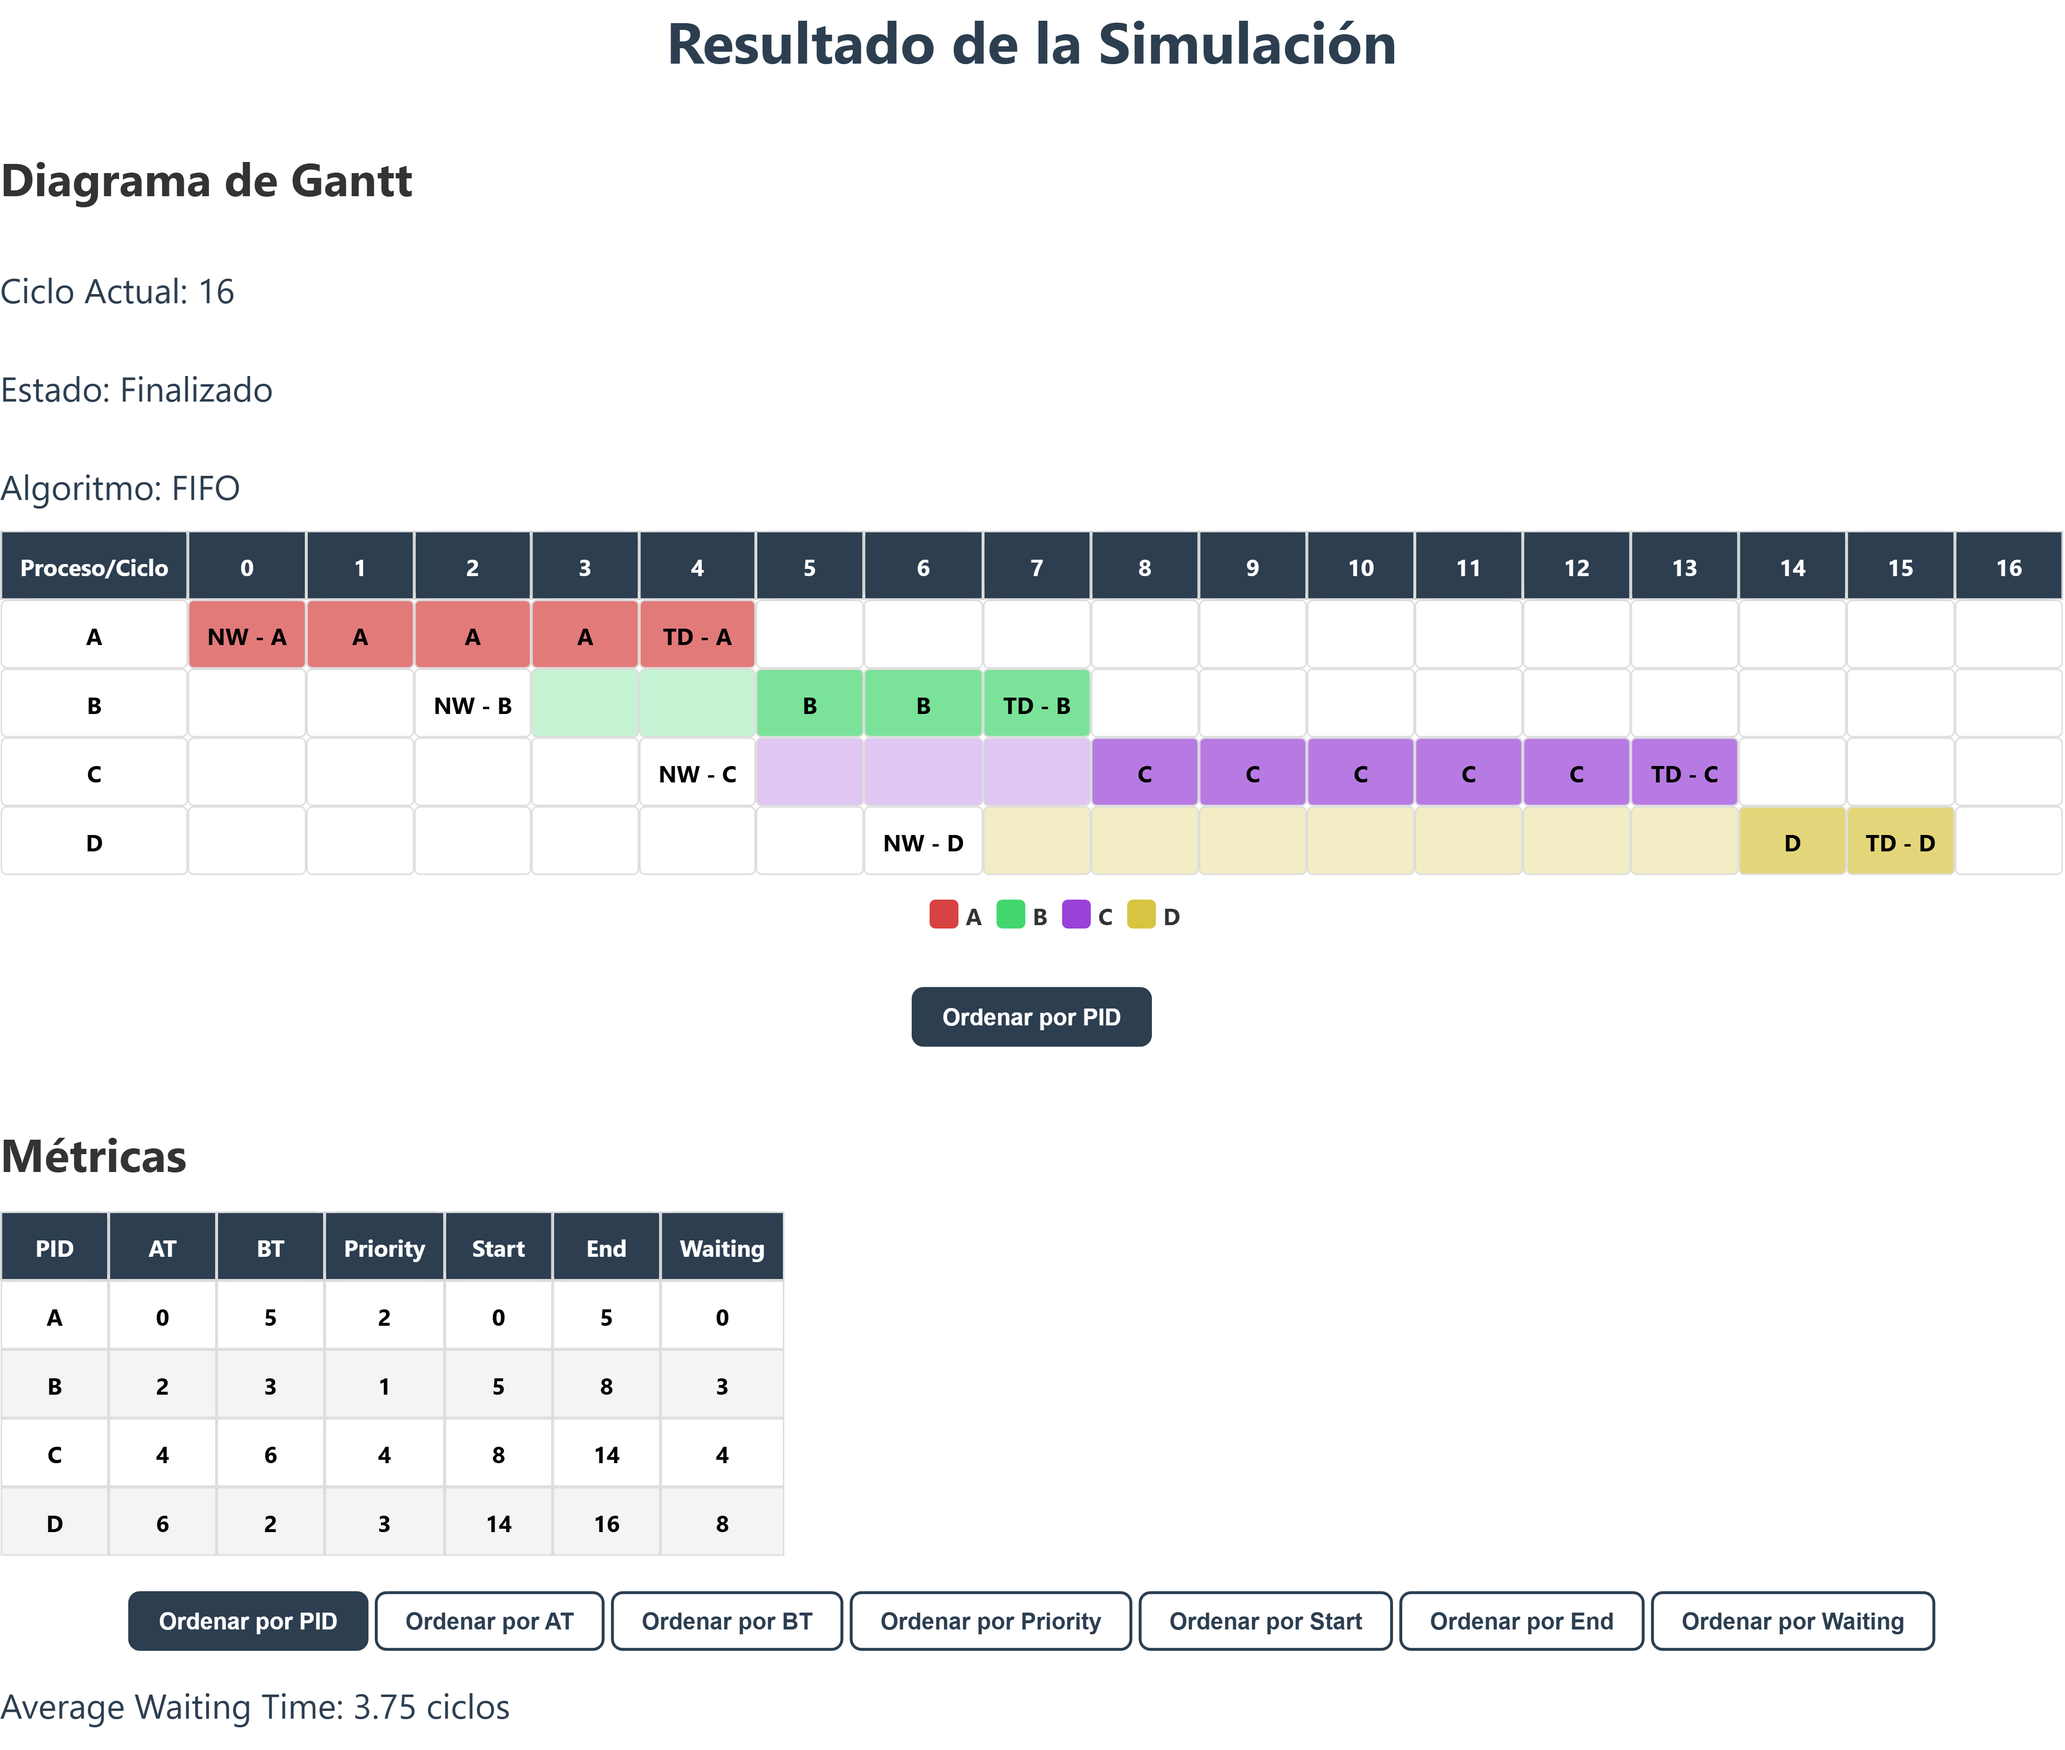
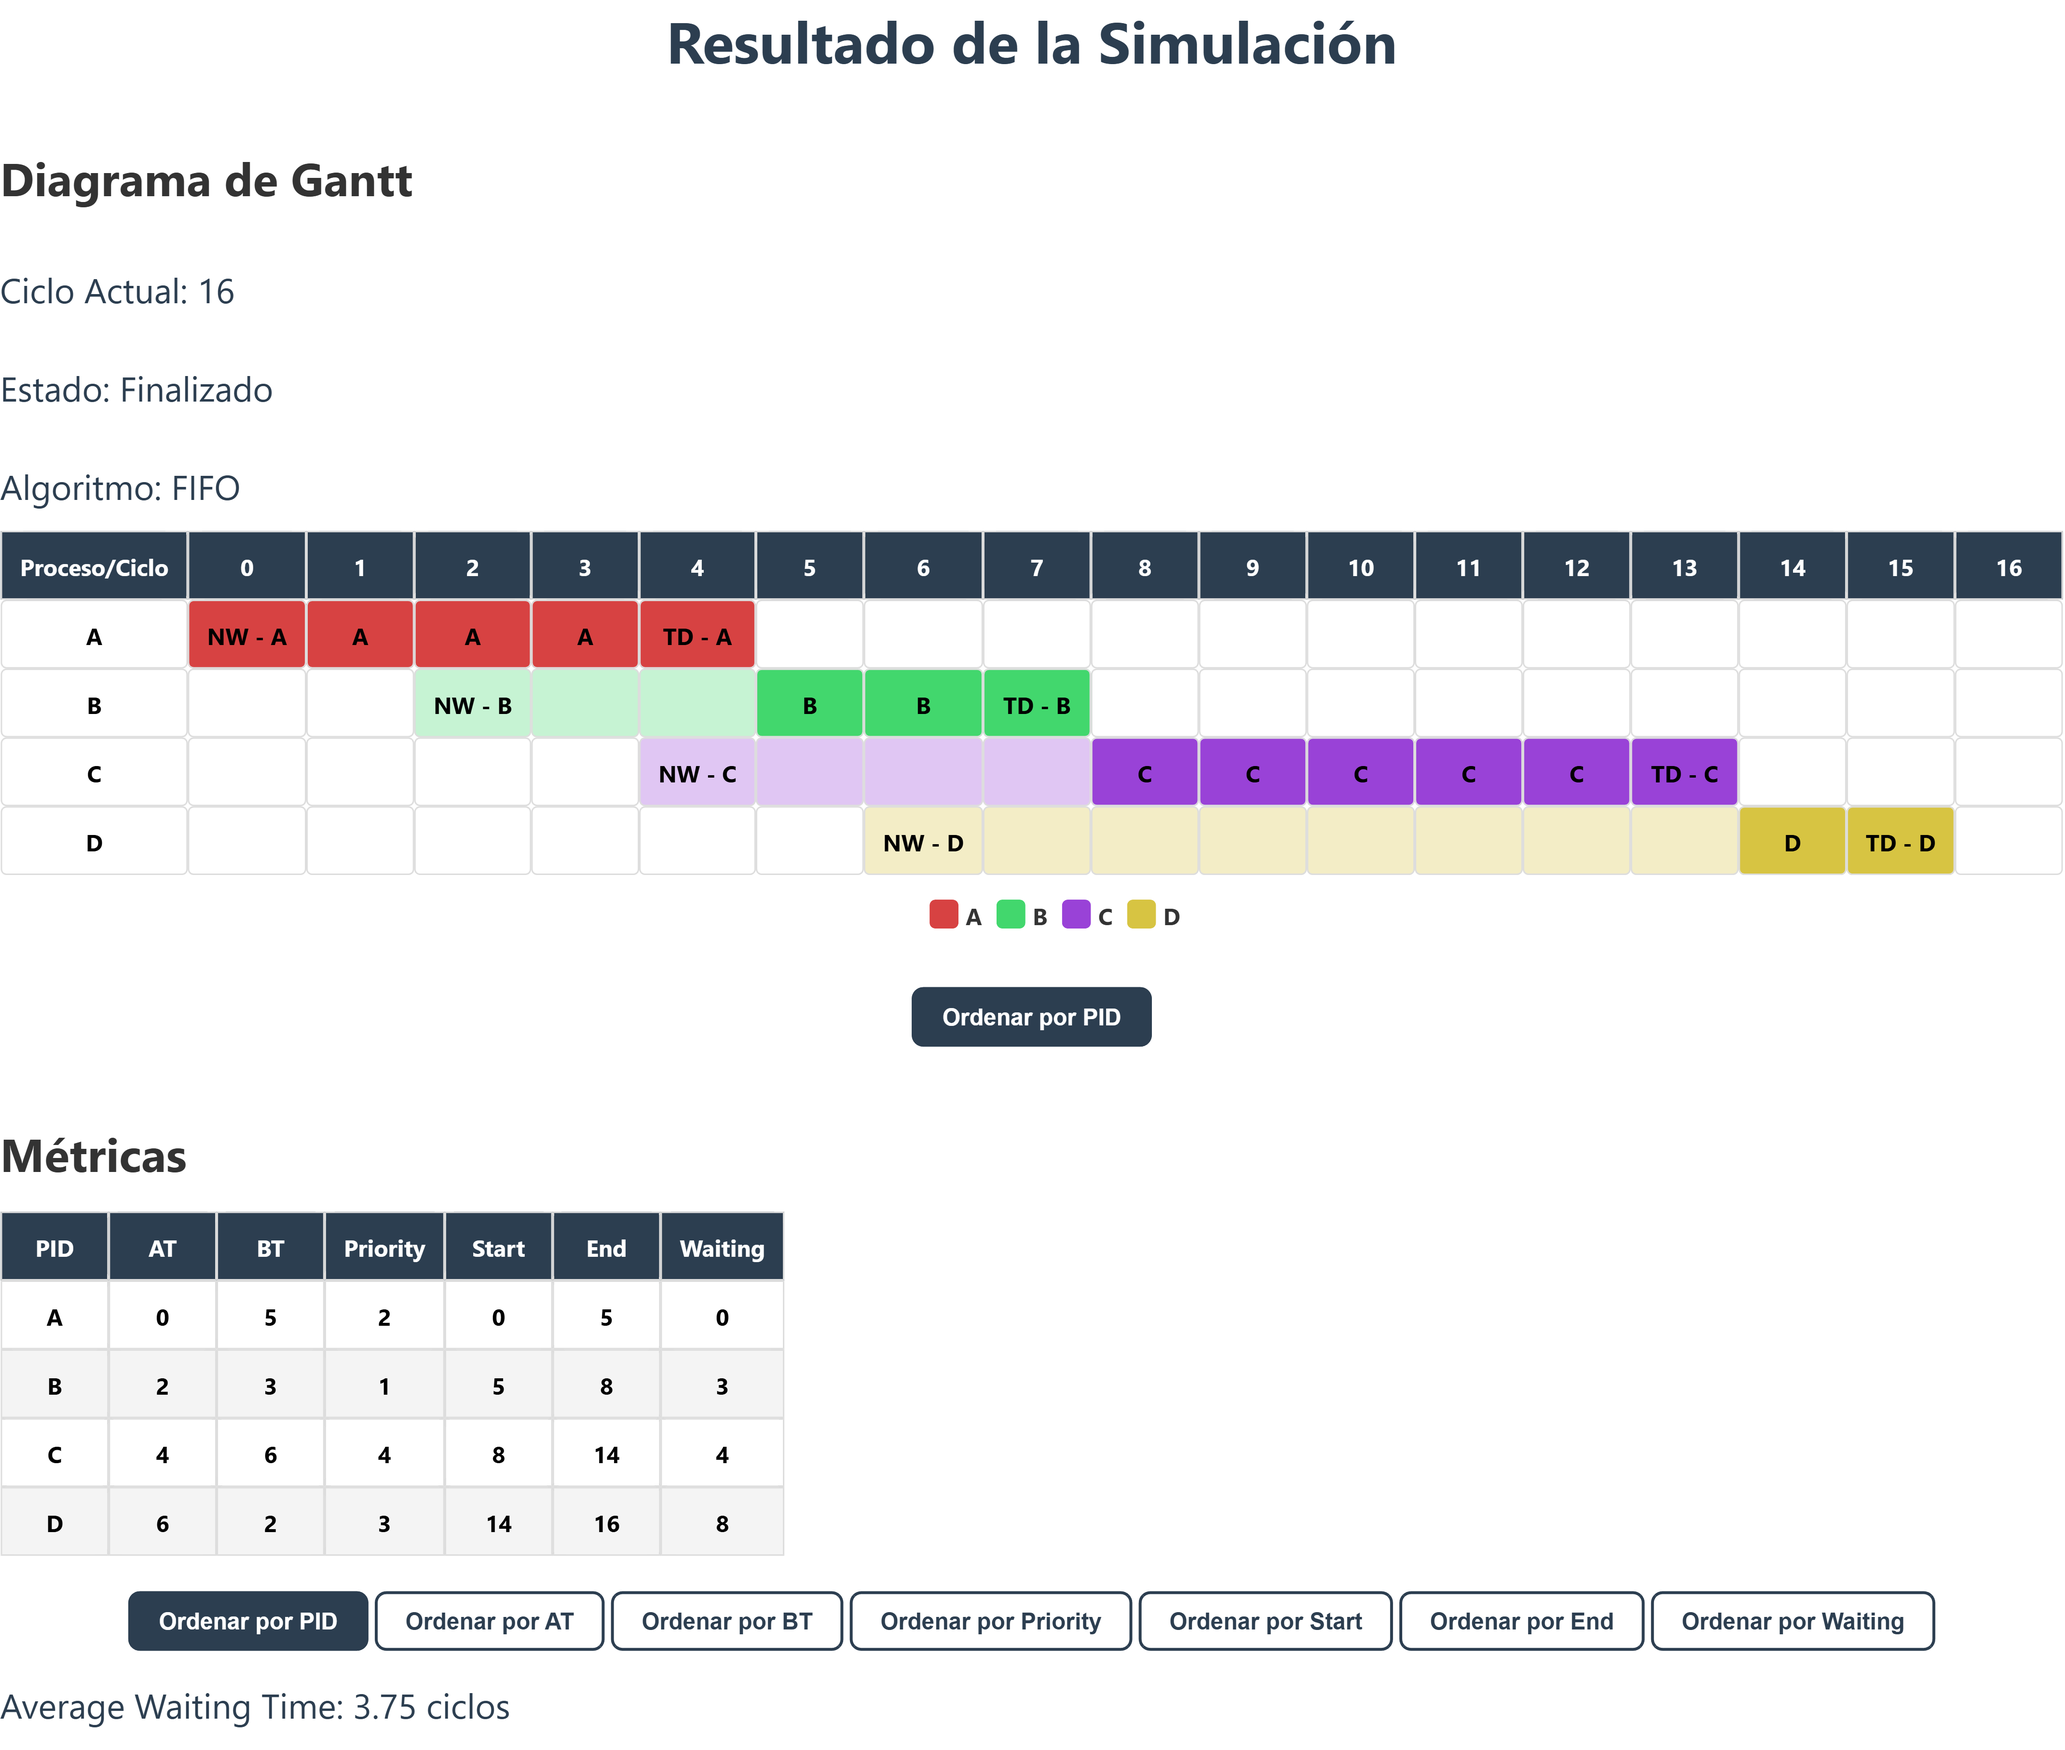
feat: cambio de imagenes

Changed region(s): [[0.0932, 0.3424, 0.9631, 0.4981]]

diff --git a/frontend/assets/js/simulation-scheduling.js b/frontend/assets/js/simulation-scheduling.js
@@ -37,7 +37,7 @@ function getColorForProcess(pid, state) {
     case "TERMINATED":
       return `${base} 1)`; // opacidad completa
     case "ACCESSED":
-      return `${base} 0.7)`; // tono medio
+      return `${base} 1)`; // tono medio
     case "WAITING":
       return `${base} 0.3)`; // tono opaco
     default:
@@ -109,15 +109,18 @@ function renderGanttTable(events) {
       } else if (hasAccessed && hasNew) {
         label = `NW - ${pid}`;
         color = getColorForProcess(pid, "ACCESSED");
+      } else if (hasWaiting && hasNew) {
+        label = `NW - ${pid}`;
+        color = getColorForProcess(pid, "WAITING");
       } else if (hasAccessed) {
         label = pid;
         color = getColorForProcess(pid, "ACCESSED");
+      } else if (hasWaiting) {
+        label = "";
+        color = getColorForProcess(pid, "WAITING");
       } else if (hasNew) {
         label = `NW - ${pid}`;
         color = "transparent";
-      } else if (hasWaiting) {
-        // label = pid;
-        color = getColorForProcess(pid, "WAITING");
       }
 
       row += `<td style="background:${color}; color:#000;">${label}</td>`;

diff --git a/backend/src/rr.c b/backend/src/rr.c
@@ -72,12 +72,12 @@ void simulateRR(Process *processes, int processCount,
       }
     }
 
-    // Si no hay proceso actual o se agotó el quantum
+    // Si no hay proceso actual o se agotó el quantum = cambio de proceso en ejecución
     if (currentProcess == -1 || quantumCounter == quantum)
     {
       if (currentProcess != -1 && remainingBurst[currentProcess] > 0)
       {
-        queue[queueEnd++] = currentProcess;
+        queue[queueEnd++] = currentProcess; // reencolar el proceso actual
       }
 
       if (queueStart < queueEnd)
@@ -105,7 +105,7 @@ void simulateRR(Process *processes, int processCount,
           processes[i].state != STATE_TERMINATED &&
           remainingBurst[i] > 0)
       {
-        printEventForProcess(&processes[i], currentTime, STATE_WAITING, events, eventCount);
+        printEventForProcess(&processes[i], currentTime, STATE_WAITING, events, eventCount); // marcar procesos que ya estan en la simulación pero no se ejecutan
       }
     }
 
